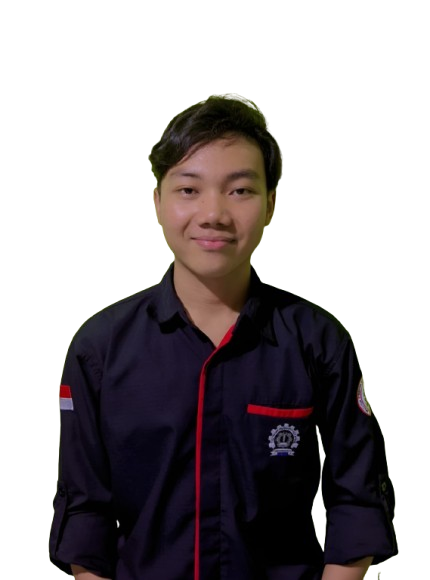
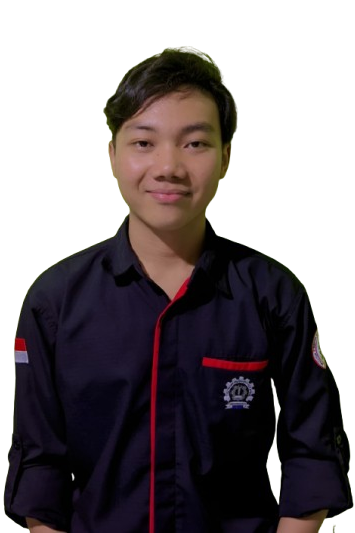
Update Home Photo

diff --git a/index.html b/index.html
@@ -81,7 +81,7 @@
           </div>
 
           <div class="home__handle">
-            <img src="assets/img/WhatsApp_Image_2023-07-13_at_20.04.02-removebg-preview.png" alt="" class="home__img" />
+            <img src="assets/img/WhatsApp_Image_2025-09-11_at_2.13.04_PM-removebg-preview.png" alt="" class="home__img" />
           </div>
 
           <div class="home__social">
